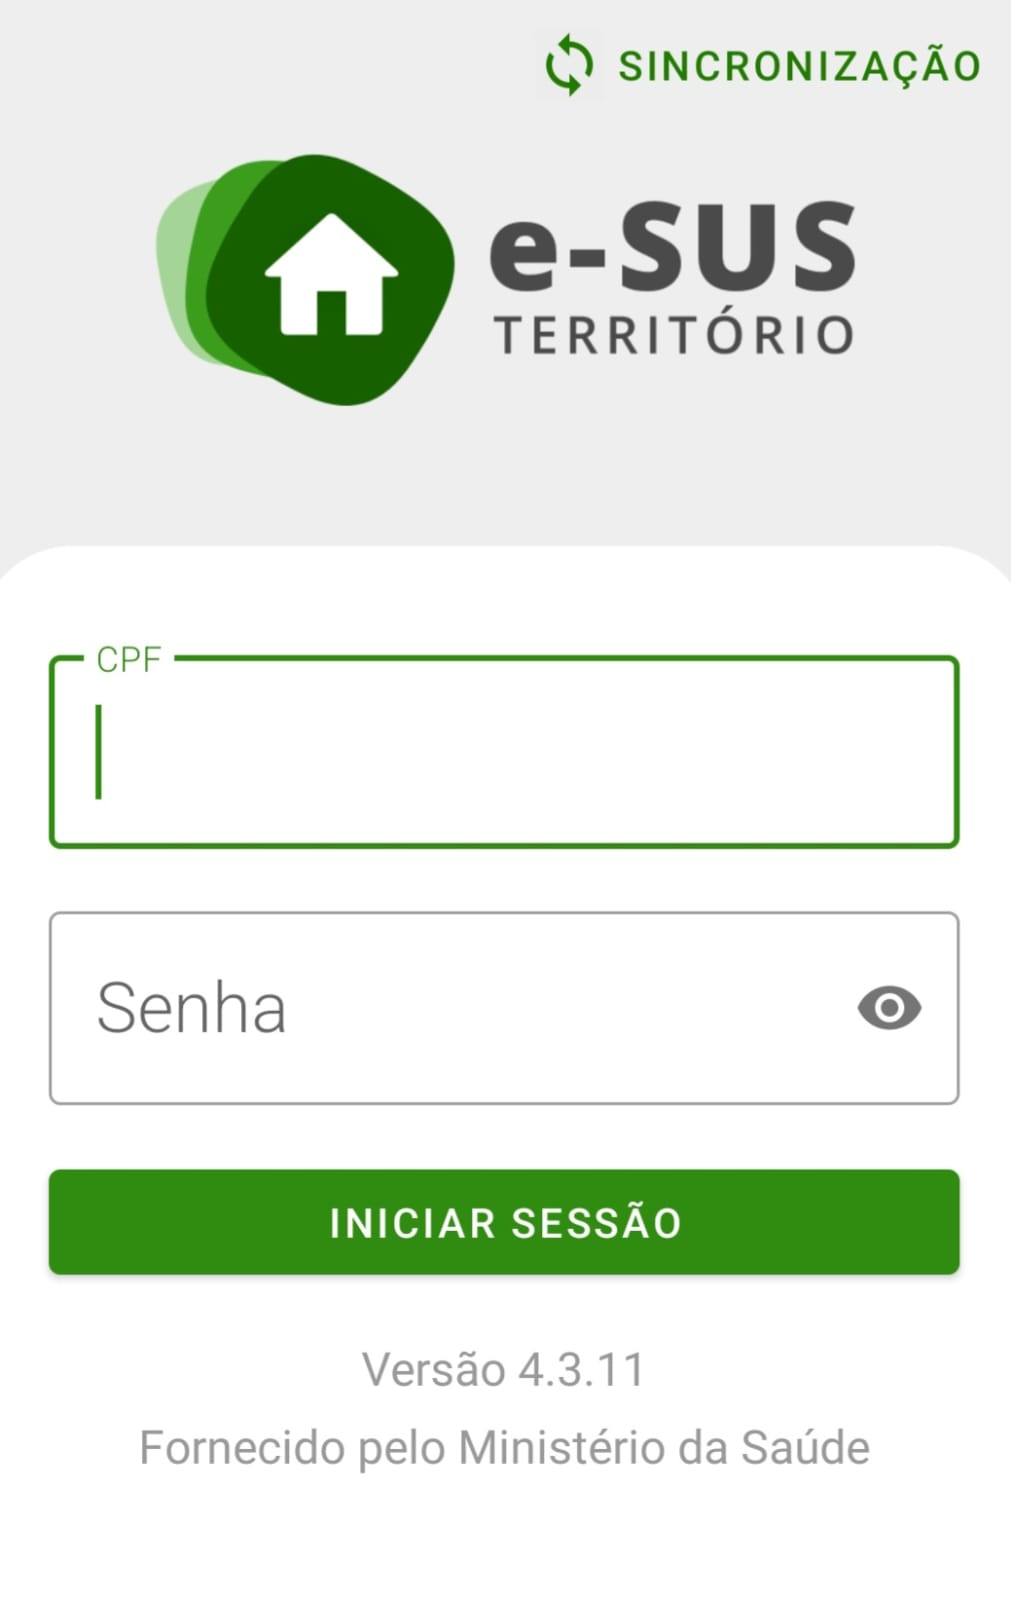
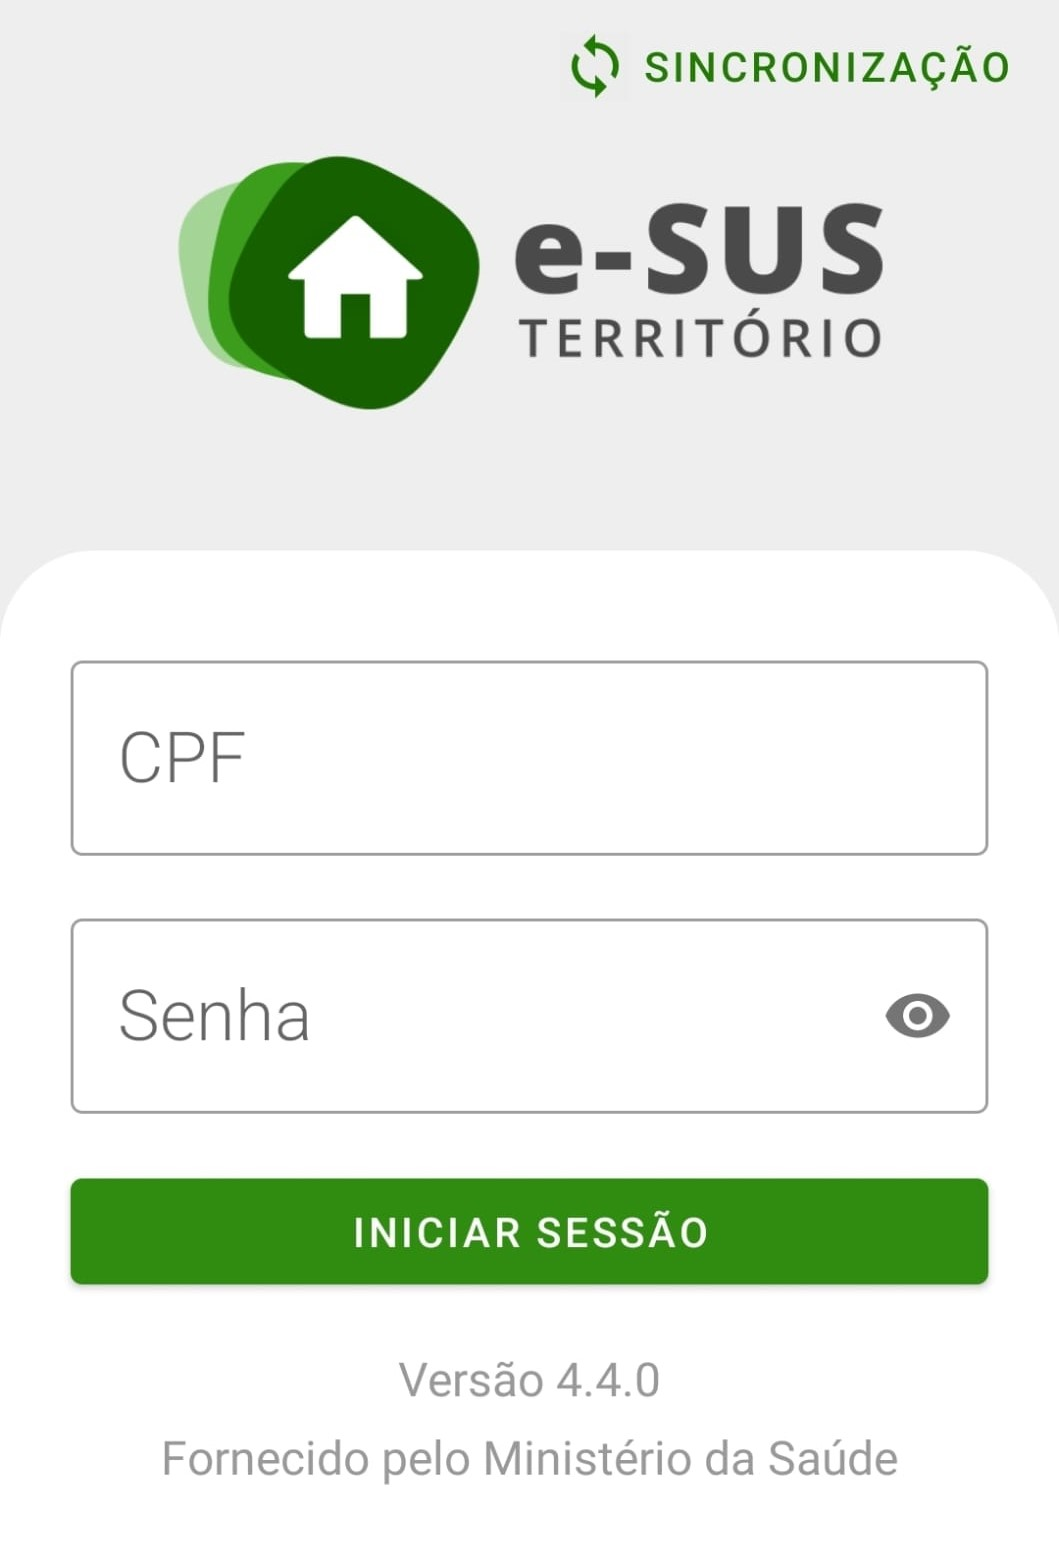
Atualiza
Nova versão

diff --git a/docs/territorio/territorio_01.md b/docs/territorio/territorio_01.md
@@ -37,7 +37,7 @@ Sua experiência de uso poderá contribuir para a evolução do aplicativo e-SUS
 
 ## 1.1 Versão do Aplicativo Usado neste Manual
 
-Este manual foi elaborado usando como referência o Aplicativo e-SUS Território em sua **versão 4.3.11**. O acesso às informações sobre a versão do aplicativo, bem como as alterações realizadas nesta e nas versões anteriores, podem ser visualizadas na opção **Sobre**, acessada no menu principal do aplicativo![](media/image2.png)
+Este manual foi elaborado usando como referência o Aplicativo e-SUS Território em sua **versão 4.4.0**. O acesso às informações sobre a versão do aplicativo, bem como as alterações realizadas nesta e nas versões anteriores, podem ser visualizadas na opção **Sobre**, acessada no menu principal do aplicativo![](media/image2.png)
 
 Figura 1.1 -- Versão do Aplicativo e-SUS Território
 

diff --git a/docs/territorio/index.md b/docs/territorio/index.md
@@ -23,7 +23,7 @@ MANUAL DE USO
 {: .text-center }
 <br>
 <br>
-(versão 4.3.11)
+(versão 4.4.0)
 {: .fs-6 }
 {: .text-center }
 <br>
